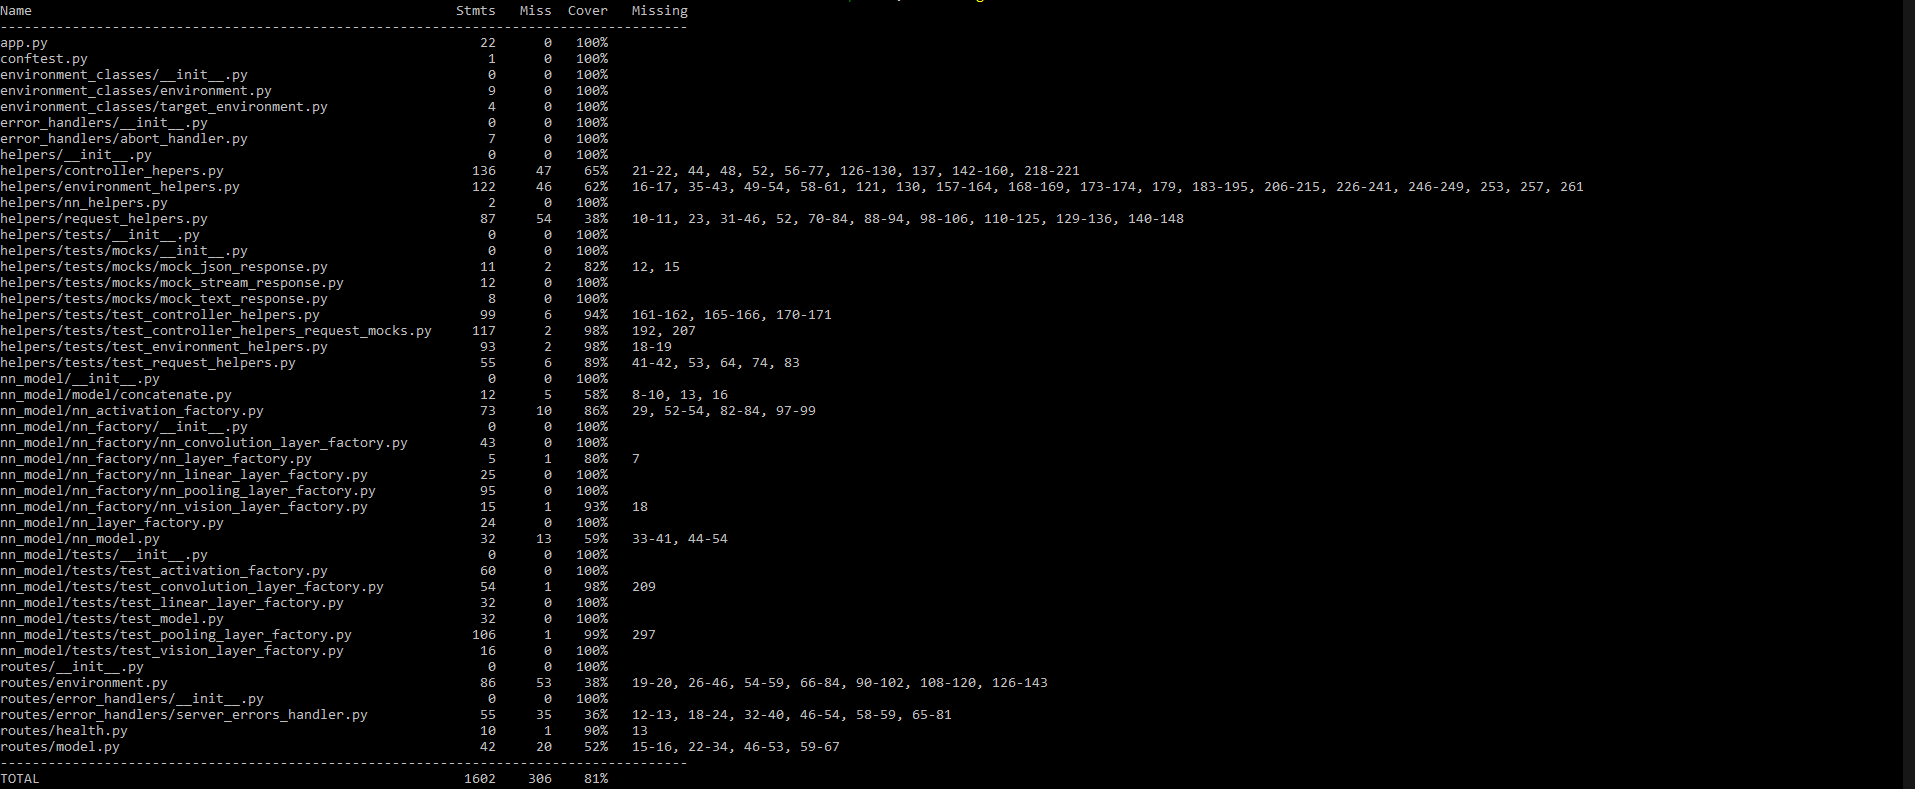
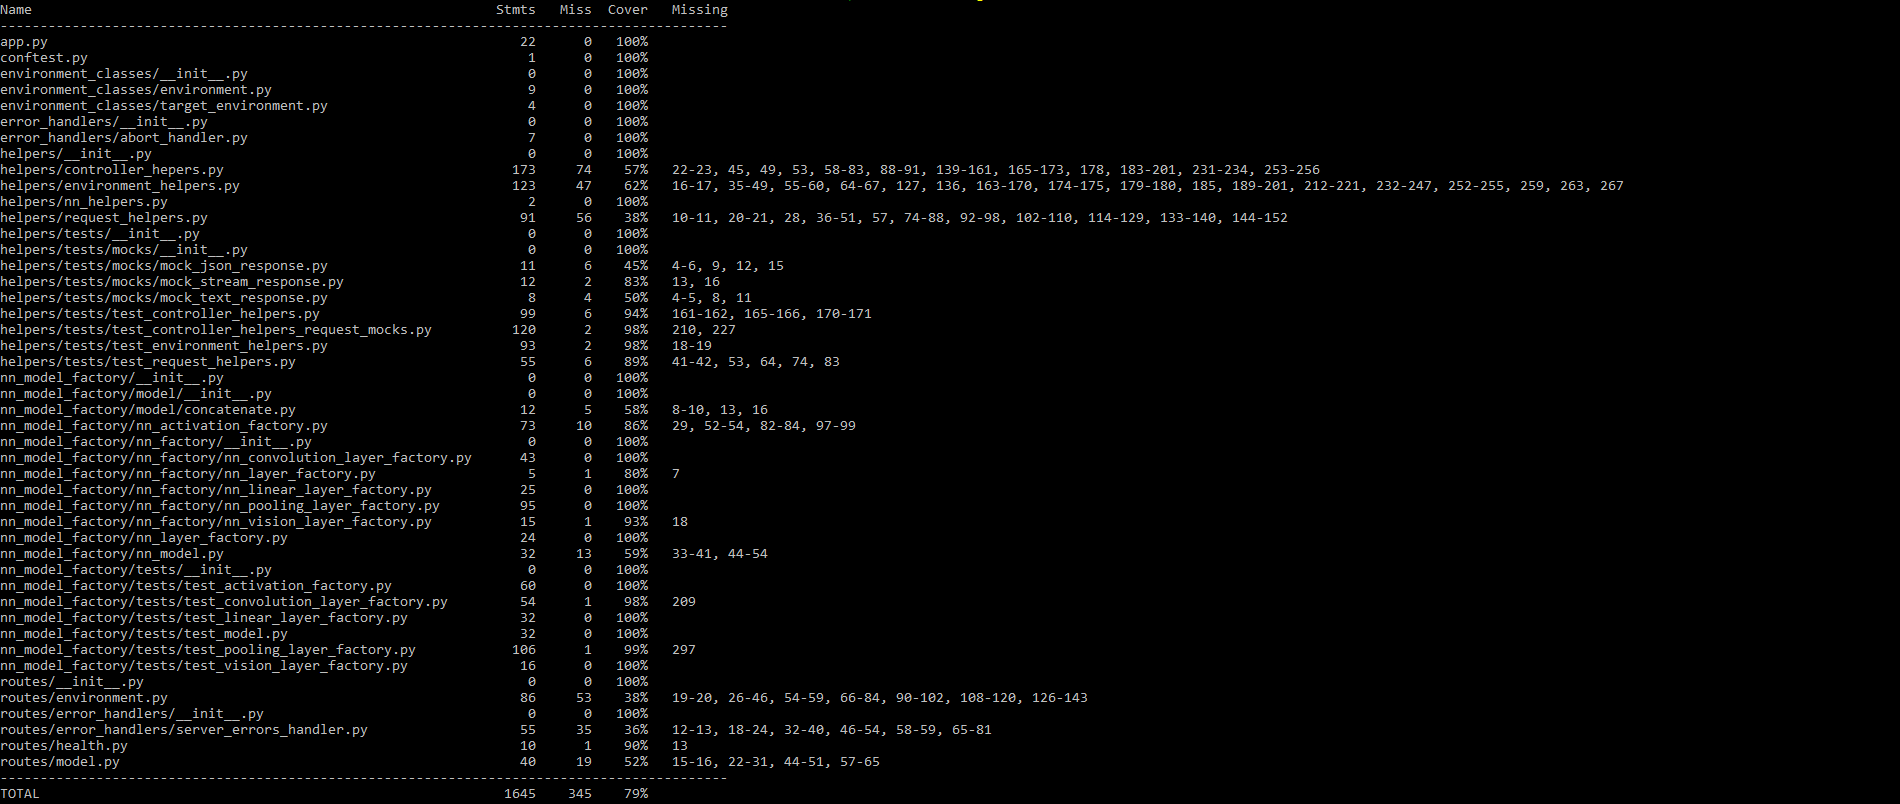
Fixed tests on controller

Changed region(s): [[0.0, 0.0, 0.8695, 1.0]]

diff --git a/main_controller/helpers/tests/test_controller_helpers_request_mocks.py b/main_controller/helpers/tests/test_controller_helpers_request_mocks.py
@@ -16,6 +16,7 @@ from unittest.mock import patch, mock_open
 from werkzeug.exceptions import HTTPException
 from environment_classes.target_environment import TargetEnvironment
 import pytest
+import requests
 
 
 test_json = {
@@ -40,10 +41,10 @@ test_json = {
 }
 
 
-def test_async_train_post_with_one_instance(mocker):
-    mock_response = MockStreamResponse(b'This will be a pytorch model file,\
-                        but it is still bytes, thus it can be anything', 200)
-    mocker.patch('aiohttp.ClientSession.post', return_value=mock_response)
+def test_async_train_post_with_one_instance(requests_mock):
+    requests_mock.post("http://{}:{}/model/train".format("192.1.1.0", "5000"),
+                       text='This will be a pytorch model file,\
+                        but it is still bytes, thus it can be anything')
 
     test_user_id = ObjectId("61febbb5d4289b4b0b4a48d5")
     test_environment_id = ObjectId("61febbb5d4289b4b0b4a48d4")
@@ -51,7 +52,7 @@ def test_async_train_post_with_one_instance(mocker):
         test_user_id,
         test_environment_id)
     instances = set(["192.1.1.0"])
-    instances_error = async_train_post(
+    instances_error = train_on_instances(
         instances,
         test_json, environment)
     assert len(instances_error) == 0
@@ -63,9 +64,9 @@ def test_async_train_post_with_one_instance(mocker):
     assert "192.1.1.0" in instances
 
 
-def test_async_train_post_with_one_instance_fail(mocker):
-    mock_response = MockTextResponse('Some 500 error message from instance', 500)
-    mocker.patch('aiohttp.ClientSession.post', return_value=mock_response)
+def test_async_train_post_with_one_instance_fail(requests_mock):
+    requests_mock.post("http://{}:{}/model/train".format("192.1.1.0", "5000"),
+                       text='Some 500 error message from instance', status_code=500)
 
     test_user_id = ObjectId("61febbb5d4289b4b0b4a48d5")
     test_environment_id = ObjectId("61febbb5d4289b4b0b4a48d4")
@@ -73,7 +74,7 @@ def test_async_train_post_with_one_instance_fail(mocker):
         test_user_id,
         test_environment_id)
     instances = set(["192.1.1.0"])
-    instances_error = async_train_post(
+    instances_error = train_on_instances(
         instances,
         test_json, environment)
 
@@ -82,14 +83,22 @@ def test_async_train_post_with_one_instance_fail(mocker):
     assert "192.1.1.0" not in instances
 
 
-def test_async_train_post_with_more_instances(mocker):
+def test_async_train_post_with_more_instances(requests_mock):
     mock_responses = [MockStreamResponse(b'This will be a pytorch model file,\
                         but it is still bytes, thus it can be anything', 200),
                       MockStreamResponse(b'This will be a pytorch model file,\
                         but it is still bytes, thus it can be anything', 200),
                       MockStreamResponse(b'This will be a pytorch model file,\
                         but it is still bytes, thus it can be anything', 200)]
-    mocker.patch('aiohttp.ClientSession.post', side_effect=mock_responses)
+    requests_mock.post("http://{}:{}/model/train".format("192.12.1.0", "5000"),
+                       text='This will be a pytorch model file,\
+                        but it is still bytes, thus it can be anything', status_code=200)
+    requests_mock.post("http://{}:{}/model/train".format("192.1.1.12", "5000"),
+                       text='This will be a pytorch model file,\
+                        but it is still bytes, thus it can be anything', status_code=200)
+    requests_mock.post("http://{}:{}/model/train".format("192.1.12.3", "5000"),
+                       text='This will be a pytorch model file,\
+                        but it is still bytes, thus it can be anything', status_code=200)
 
     test_user_id = ObjectId("61febbb5d4289b4b0b4a48d5")
     test_environment_id = ObjectId("61febbb5d4289b4b0b4a48d4")
@@ -97,7 +106,7 @@ def test_async_train_post_with_more_instances(mocker):
         test_user_id,
         test_environment_id)
     instances = set(["192.12.1.0", "192.1.1.12", "192.1.12.3"])
-    instances_error = async_train_post(
+    instances_error = train_on_instances(
         instances,
         test_json, environment)
     assert len(instances_error) == 0
@@ -121,9 +130,13 @@ def test_async_train_post_with_more_instances(mocker):
     assert "192.1.12.3" in instances
 
 
-def test_async_train_post_with_more_instances_fail(mocker):
-    mock_response = MockTextResponse('Some 500 error message from instance', 500)
-    mocker.patch('aiohttp.ClientSession.post', return_value=mock_response)
+def test_async_train_post_with_more_instances_fail(requests_mock):
+    requests_mock.post("http://{}:{}/model/train".format("192.1.1.0", "5000"),
+                       text='Some 500 error message from instance', status_code=500)
+    requests_mock.post("http://{}:{}/model/train".format("192.1.1.1", "5000"),
+                       text='Some 500 error message from instance', status_code=500)
+    requests_mock.post("http://{}:{}/model/train".format("192.1.2.3", "5000"),
+                       text='Some 500 error message from instance', status_code=500)
 
     test_user_id = ObjectId("61febbb5d4289b4b0b4a48d5")
     test_environment_id = ObjectId("61febbb5d4289b4b0b4a48d4")
@@ -131,7 +144,7 @@ def test_async_train_post_with_more_instances_fail(mocker):
         test_user_id,
         test_environment_id)
     instances = set(["192.1.1.0", "192.1.1.1", "192.1.2.3"])
-    instances_error = async_train_post(
+    instances_error = train_on_instances(
         instances,
         test_json, environment)
     assert len(instances_error) == 3
@@ -143,12 +156,14 @@ def test_async_train_post_with_more_instances_fail(mocker):
     assert "192.1.2.3" not in instances
 
 
-def test_async_train_post_with_more_instances_two_fail(mocker):
-    mock_responses = [MockStreamResponse(b'This will be a pytorch model file,\
-                        but it is still bytes, thus it can be anything', 200),
-                      MockTextResponse('Some 500 error message from instance', 500),
-                      MockTextResponse('Some 500 error message from instance', 500)]
-    mocker.patch('aiohttp.ClientSession.post', side_effect=mock_responses)
+def test_async_train_post_with_more_instances_two_fail(requests_mock):
+    requests_mock.post("http://{}:{}/model/train".format("192.12.11.0", "5000"),
+                       text='This will be a pytorch model file,\
+                        but it is still bytes, thus it can be anything')
+    requests_mock.post("http://{}:{}/model/train".format("192.1.11.12", "5000"),
+                       text='Some 500 error message from instance', status_code=500)
+    requests_mock.post("http://{}:{}/model/train".format("192.1.112.3", "5000"),
+                       text='Some 500 error message from instance', status_code=500)
 
     test_user_id = ObjectId("61febbb5d4289b4b0b4a48d5")
     test_environment_id = ObjectId("61febbb5d4289b4b0b4a48d4")
@@ -156,7 +171,7 @@ def test_async_train_post_with_more_instances_two_fail(mocker):
         test_user_id,
         test_environment_id)
     instances = set(["192.12.11.0", "192.1.11.12", "192.1.112.3"])
-    instances_error = async_train_post(
+    instances_error = train_on_instances(
         instances,
         test_json, environment)
     assert len(instances_error) == 2
@@ -170,34 +185,39 @@ def test_async_train_post_with_more_instances_two_fail(mocker):
         assert err == 'Some 500 error message from instance'
 
 
-def test_get_available_instances_with_one_instance(mocker):
-    mock_response = MockJSONResponse({"availability": True}, 200)
-    mocker.patch('requests.get', return_value=mock_response)
+def test_get_available_instances_with_one_instance(requests_mock):
+    requests_mock.get(
+        'http://{}:{}/instance/availability'.format("192.1.1.0", "5000"),
+        json={"availability": True})
 
     environment = {"environment_ips": ["192.1.1.0"]}
-    available_instances = get_available_instances(environment, 10, 1)
+    available_instances = get_available_instances(environment["environment_ips"], 10, 1)
+    error(available_instances)
     assert len(available_instances) == 1
     assert min(available_instances) == '192.1.1.0'
 
 
-def test_get_available_instances_with_one_instance_insufficient_environments(mocker):
-    mock_response = MockJSONResponse({"availability": True}, 200)
-    mocker.patch('requests.get', return_value=mock_response)
+def test_get_available_instances_with_one_instance_insufficient_environments(requests_mock):
+    requests_mock.get(
+        'http://{}:{}/instance/availability'.format("192.1.1.0", "5000"),
+        json={"availability": True})
 
     environment = {"environment_ips": ["192.1.1.0"]}
     with app.app_context():
         with pytest.raises(HTTPException) as httperror:
-            get_available_instances(environment, 10, 2)
+            get_available_instances(environment["environment_ips"], 10, 2)
 
             assert 400 == httperror.value.code
             assert "Not enough available instances found" == httperror.msg
 
 
-def test_get_available_instances_with_two_instance_not_enough_trials(mocker):
-    mock_responses = [MockJSONResponse({"availability": False}, 200),
-                      MockJSONResponse({"availability": True}, 200),
-                      MockJSONResponse({"availability": True}, 200)]
-    mocker.patch('requests.get', side_effect=mock_responses)
+def test_get_available_instances_with_two_instance_not_enough_trials(requests_mock):
+    requests_mock.get(
+        'http://{}:{}/instance/availability'.format("192.1.1.0", "5000"),
+        json={"availability": False})
+    requests_mock.get(
+        'http://{}:{}/instance/availability'.format("192.1.1.1", "5000"),
+        json={"availability": True})
 
     environment = {"environment_ips": ["192.1.1.0", "192.1.1.1"]}
     with app.app_context():
@@ -208,14 +228,19 @@ def test_get_available_instances_with_two_instance_not_enough_trials(mocker):
             assert "Not enough available instances found" == httperror.msg
 
 
-def test_get_available_instances_with_two_instances_success(mocker):
-    mock_responses = [MockJSONResponse({"availability": False}, 200),
-                      MockJSONResponse({"availability": True}, 200),
-                      MockJSONResponse({"availability": True}, 200)]
-    mocker.patch('requests.get', side_effect=mock_responses)
+def test_get_available_instances_with_two_instances_success(requests_mock):
+    requests_mock.get(
+        'http://{}:{}/instance/availability'.format("192.1.1.0", "5000"),
+        json={"availability": False})
+    requests_mock.get(
+        'http://{}:{}/instance/availability'.format("192.1.1.1", "5000"),
+        json={"availability": True})
+    requests_mock.get(
+        'http://{}:{}/instance/availability'.format("192.1.1.0", "5000"),
+        json={"availability": True})
 
     environment = {"environment_ips": ["192.1.1.0", "192.1.1.1"]}
-    available_instances = get_available_instances(environment, 2, 2)
+    available_instances = get_available_instances(environment["environment_ips"], 2, 2)
     assert len(available_instances) == 2
     for ip in environment["environment_ips"]:
         assert ip in available_instances

diff --git a/main_controller/helpers/environment_helpers.py b/main_controller/helpers/environment_helpers.py
@@ -180,7 +180,6 @@ def get_dataset_length(request_json):
     return dataset_length
 
 
-# TODO: Get user id from auhentication token
 def get_user_id(request_json):
     return request_json["user_id"]
 
